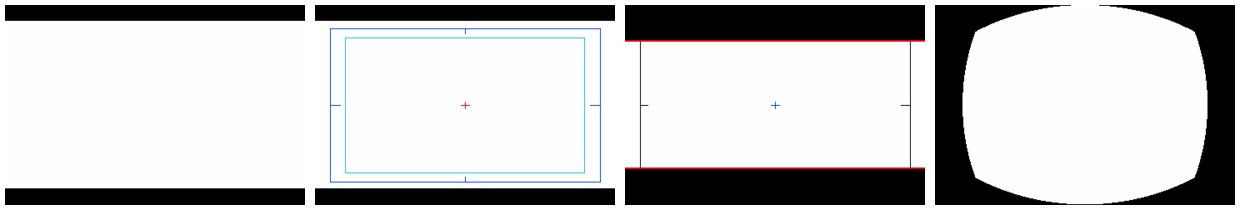
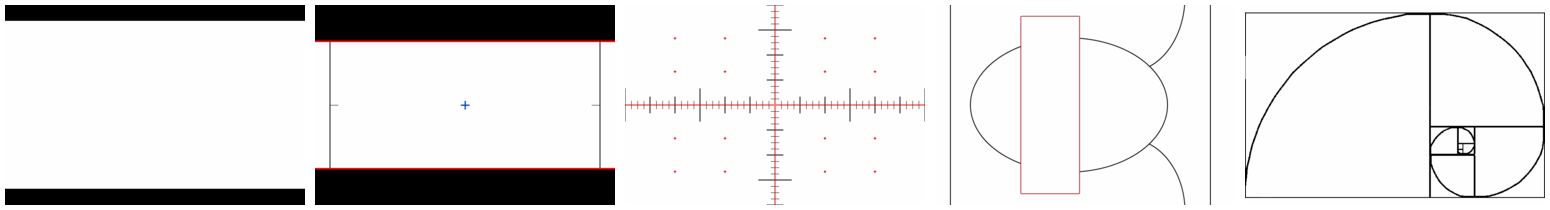
New cropmarks

diff --git a/doc/mkdoc.py b/doc/mkdoc.py
@@ -66,7 +66,7 @@ def add_menu_items_to_contents(file):
     f.close()
 
 
-os.system("montage ../cropmks/16x9_blk.bmp ../cropmks/hd_ta.bmp ../cropmks/CineSco2.bmp ../cropmks/fish8r.bmp -tile 4x1 -geometry 300x200+5+5 Cropmarks550D.png")
+os.system("montage ../cropmks/16x9_blk.bmp ../cropmks/CineSco2.bmp ../cropmks/CrssMtr1.bmp ../cropmks/Passport.bmp  ../cropmks/PhiPhoto.bmp -tile 5x1 -geometry 300x200+5+5 Cropmarks550D.png")
 
 f = open("FEATURES.txt").readlines();
 m = open("MANUAL.txt").readlines();

diff --git a/src/menuindex.c b/src/menuindex.c
@@ -79,7 +79,7 @@ help_menu_init( void* unused )
 
 INIT_FUNC( "help_menu", help_menu_init );
 
-int help_pages = 115;
+int help_pages = 117;
 int help_menus_num = 10;
 
 
